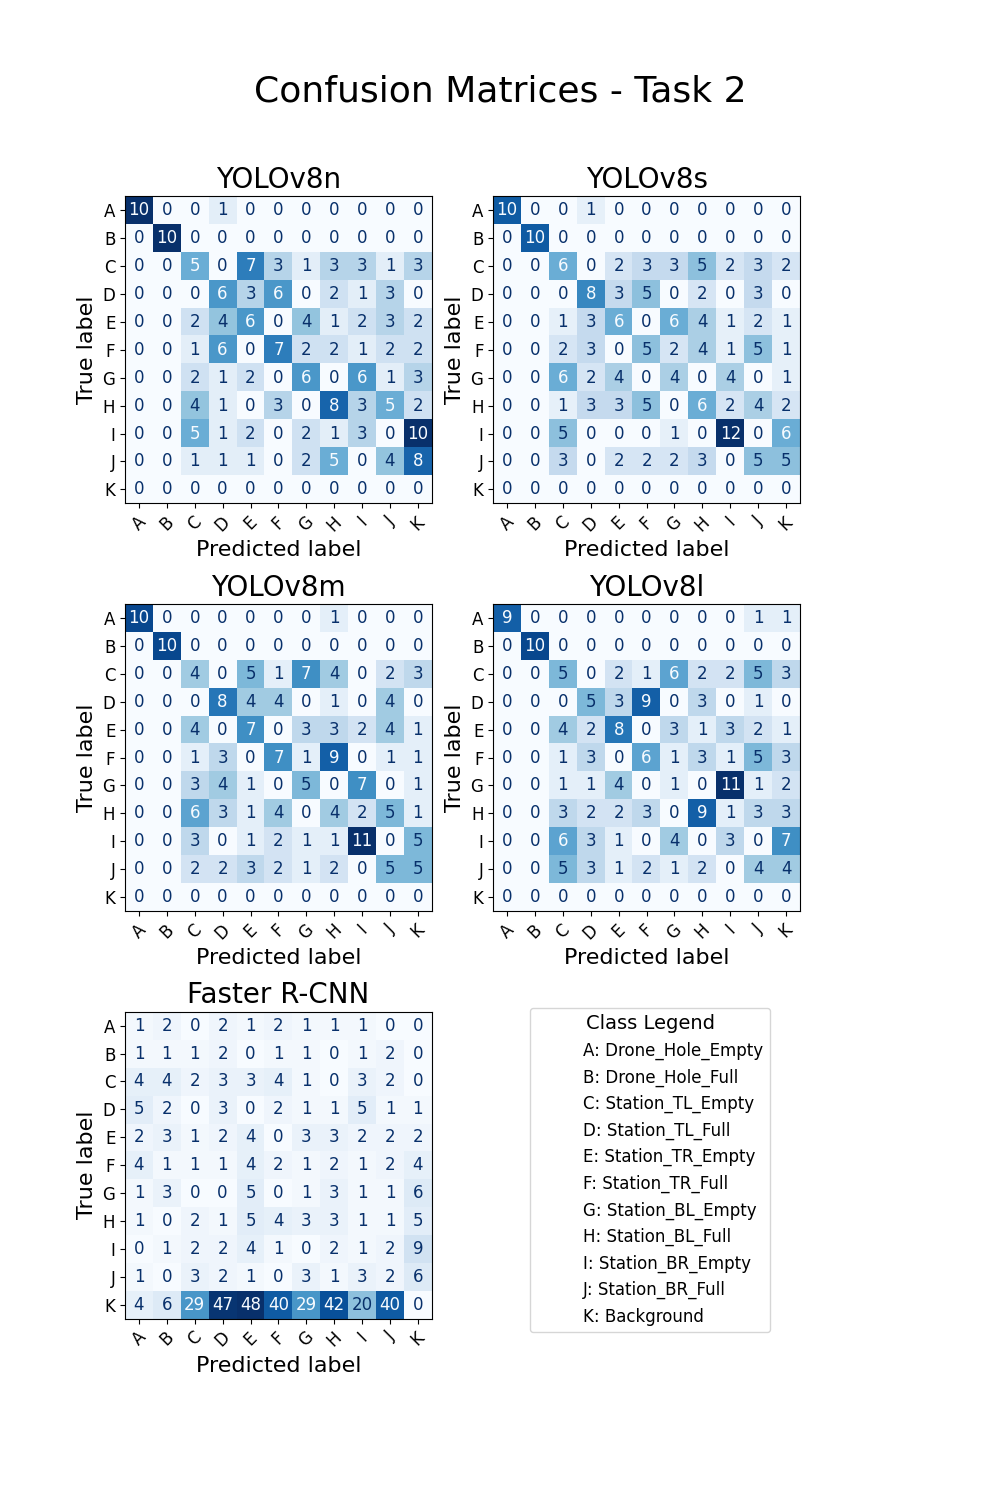
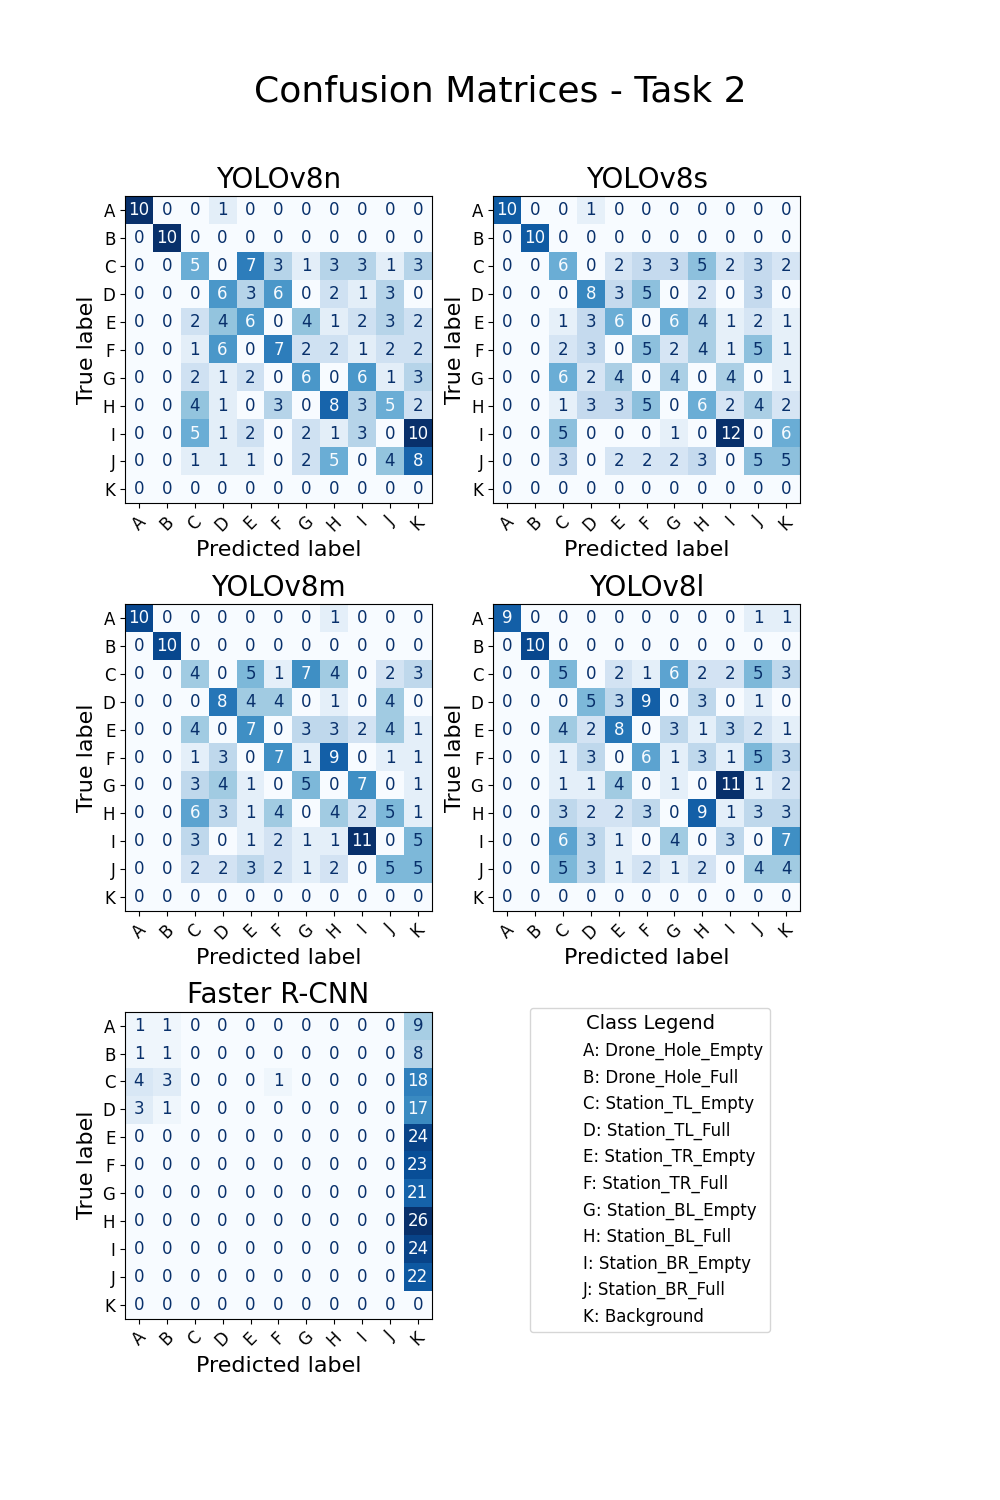
Training and plotting

diff --git a/Datasets/Dataset_NN2/5_TestRCNN_NN2.py b/Datasets/Dataset_NN2/5_TestRCNN_NN2.py
@@ -69,7 +69,7 @@ def main():
             scores = outputs["scores"].cpu().numpy()
 
             # Filter predictions by confidence
-            conf_threshold = 0.3
+            conf_threshold = 0.7
             mask = scores >= conf_threshold
             boxes = boxes[mask]
             labels = labels[mask]
@@ -144,39 +144,6 @@ def main():
         f.write(f"{coco_eval.stats[0]:.4f}, {coco_eval.stats[1]:.4f}, "
                 f"{coco_eval.stats[1]:.4f}, {coco_eval.stats[2]:.4f}\n")
 
-    # Confusion matrix
-    # Reorder so background (0) is last
-    ordered_labels = [1, 2, 3, 4, 5, 6, 7, 8, 9, 10, 0]  # Drone, Station, Background
-    ordered_class_names = [classes[i] for i in ordered_labels]
-
-    cm = confusion_matrix(y_true, y_pred, labels=ordered_labels)
-    disp = ConfusionMatrixDisplay(confusion_matrix=cm, display_labels=ordered_class_names)
-
-    # Plot with larger font
-    fig, ax = plt.subplots(figsize=(8, 6))  # Optional: make the figure a bit larger
-    disp.plot(
-        cmap=plt.cm.Blues,
-        xticks_rotation=45,
-        ax=ax,
-        values_format='d'
-    )
-
-    plt.title("Confusion Matrix", fontsize = 16)
-    plt.xlabel("Predicted Label", fontsize=14)
-    plt.ylabel("True Label", fontsize=14)
-    ax.tick_params(labelsize=12)
-
-    # 🔥 Make numbers inside the matrix bigger
-    for text in disp.text_.ravel():
-        if text:  # skip if None
-            text.set_fontsize(18)
-
-    # Save the plot
-    plt.tight_layout()
-    plt.savefig(os.path.join(output_dir, "confusion_matrix.png"))
-    plt.close()
-
-    print(f"Results saved to: {output_dir}")
 
 if __name__ == "__main__":
     main()
